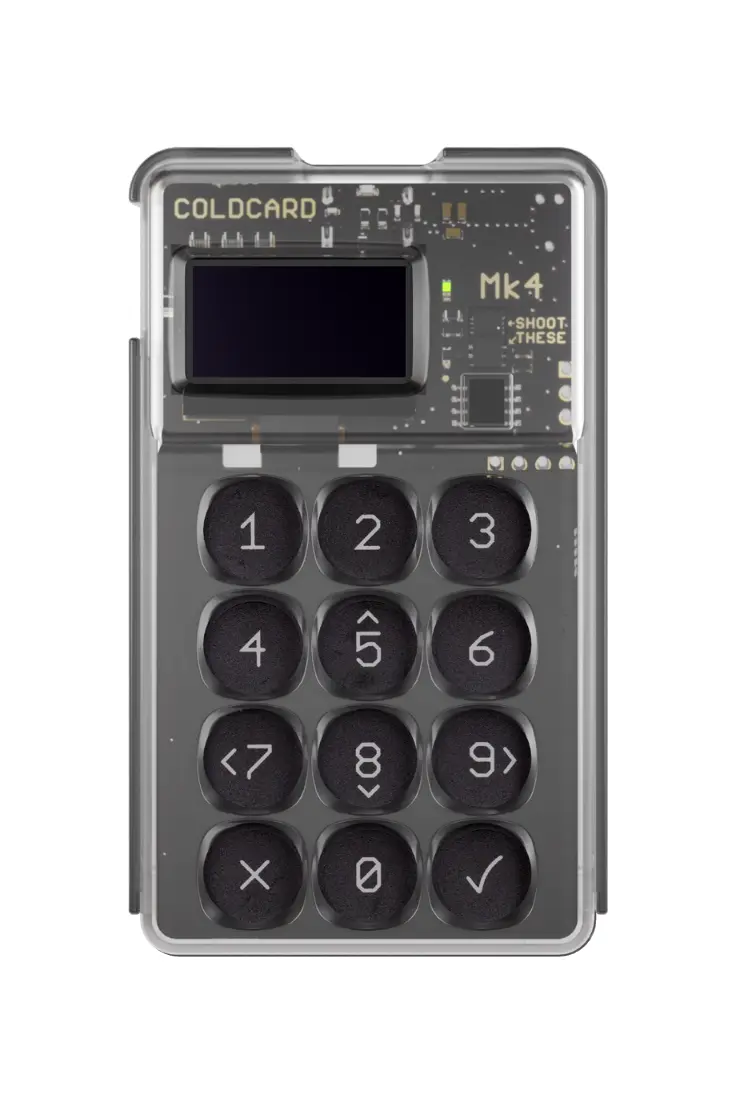
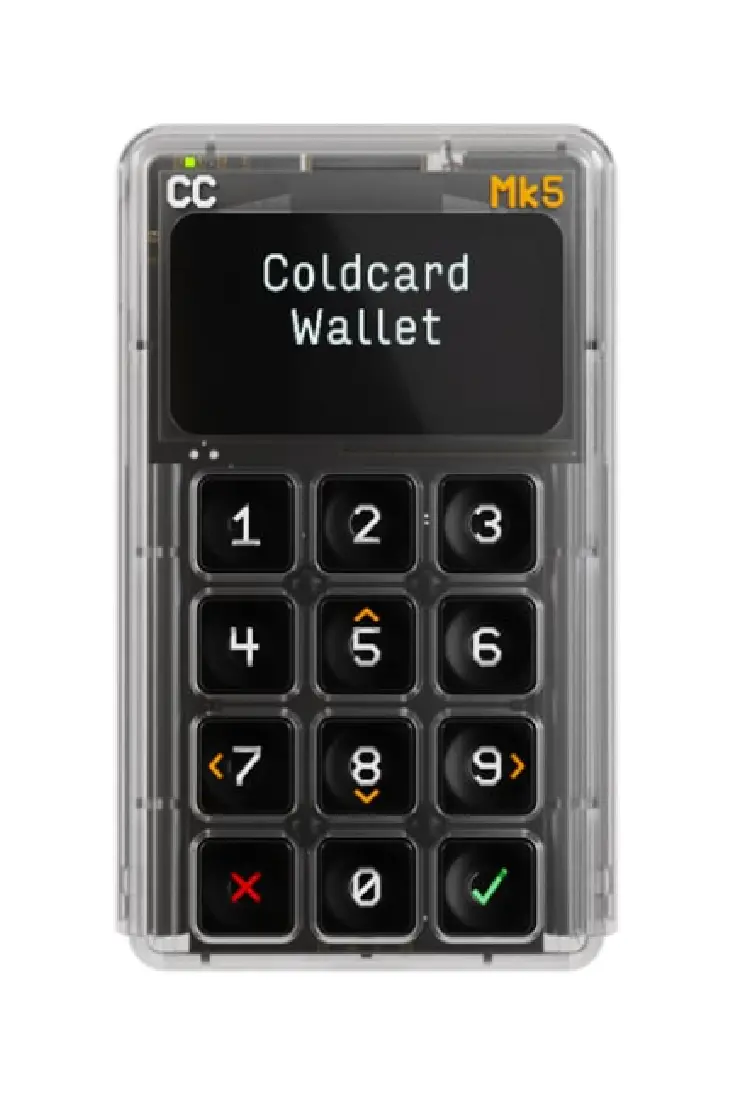
Update BTC 103 EN

diff --git a/content/blog/2026-02-04-bitcoin-103.md b/content/blog/2026-02-04-bitcoin-103.md
@@ -55,10 +55,12 @@ custom_reading_time = 13
 
 <p>The device allows you to sign transactions offline before broadcasting them to the network, ensuring your private keys never leave the secure environment of the hardware wallet, even when sending Bitcoin. Modern hardware wallets also offer additional security features, which won't be covered in this tutorial but are worth learning about on your own, such as: temporary seeds, passphrases, multi-signature support, etc.</p>
 
-<p>There are different options for your hardware wallet (ColdCard, BitBox02, Trezor, Jade), each one of them has a different price and sometimes different specifications. I recommend using ColdCard, either the <a class="link-text" target="_blank" href="https://coldcard.com/mk4"><b>ColdCard Mk4</b></a> (around 150 euros) which is the device I'll use for this tutorial, or pay a little bit more to have a bigger screen and more buttons: <a class="link-text" target="_blank" href="https://coldcard.com/q"><b>ColdCard Q</b></a> (around 250 euros). Both options are great.</p>
+<p>There are different options for your hardware wallet (ColdCard, BitBox02, Trezor, Jade), each with different prices and specifications. This tutorial uses Coldcard models (the <a class="link-text" target="_blank" href="https://coldcard.com/mk5"><b>ColdCard Mk5</b></a> (around 180 euros), or the <a class="link-text" target="_blank" href="https://coldcard.com/q"><b>ColdCard Q</b></a> (around 250 euros), which has a bigger screen and more buttons). If you prefer an alternative, the <a class="link-text" target="_blank" href="https://bitbox.swiss/bitbox02/"><b>BitBox02</b></a> is more beginner-friendly and provides enough features for most people, but this tutorial's exact steps are written for ColdCard.</p>
+
+> <p><b>⚠ ColdCard security notice July 2026:</b> ColdCard's July 2026 seed-generation incident affected older Mk4 and Q firmware. Before creating a wallet, verify Mk4 <b>5.6.2</b> or Q <b>1.5.2Q</b>. Updating does not repair an existing affected seed, follow <a class="link-text" target="_blank" href="https://coldcard.com/security/status"><b>ColdCard's migration guidance</b></a>. Advanced users can use <a class="link-text" target="_blank" href="https://blog.bitbox.swiss/en/roll-the-dice-generate-your-own-seed/">Bitbox's documented dice-entropy workflow</a>.</p>
 
 <div class="phone-images-row">
-  <a href="https://coldcard.com/mk4" target="_blank">
+  <a href="https://coldcard.com/mk5" target="_blank">
     <img class="phone-image" src="/images/blog/2026-02-04-bitcoin-3/image-9.webp"></img>
   </a>
   <a href="https://coldcard.com/q" target="_blank">
@@ -85,7 +87,7 @@ custom_reading_time = 13
         <iframe width="100%" height="400" src="https://www.youtube.com/embed/ZZKoSmQu30Q?si=UEacQ-8dVNJI_aOe" title="YouTube video player" frameborder="0" allow="accelerometer; autoplay; clipboard-write; encrypted-media; gyroscope; picture-in-picture; web-share" referrerpolicy="strict-origin-when-cross-origin" allowfullscreen></iframe>
         <!-- <p>For an in-depth comparison of all hardware wallets watch the following video (Warning: 3 hours long. In Spanish. Great video):</p>
         <iframe width="100%" height="400" src="https://www.youtube.com/embed/pGjJKOZL_zA?si=iO1tRwsQKEM3r0eQ" title="YouTube video player" frameborder="0" allow="accelerometer; autoplay; clipboard-write; encrypted-media; gyroscope; picture-in-picture; web-share" referrerpolicy="strict-origin-when-cross-origin" allowfullscreen></iframe> -->
-        <br><br><p>If you want to keep it simple, I recommend buying the <a class="link-text" target="_blank" href="https://coldcard.com/mk4"><b>ColdCard Mk4</b></a> or the <a class="link-text" target="_blank" href="https://coldcard.com/q"><b>ColdCard Q</b></a>. This way you'll also be able to follow this tutorial without any problems.</p>
+        <br><br><p>If you want to follow this exact tutorial, choose the <a class="link-text" target="_blank" href="https://coldcard.com/mk5"><b>ColdCard Mk5</b></a> or <a class="link-text" target="_blank" href="https://coldcard.com/q"><b>ColdCard Q</b></a>. If you choose another hardware wallet, follow its official setup instructions.</p>
     </div>
 </details>
 
@@ -190,7 +192,7 @@ custom_reading_time = 13
 - Plug the ColdCard into a power source (preferably a wall outlet rather than your computer)
 - Verify that the serial number on the device matches the one on the package card
 - Follow the on-screen tutorial to set up your ColdCard PIN and store it on the backup card
-- Select "New Seed Words" to generate your first cold wallet
+- After verifying the firmware, select "New Seed Words" to generate your first cold wallet
 - Write down the seed words on the backup card and complete the verification quiz
 - Once complete, your ColdCard will display "Ready to Sign" as the first menu option
 
